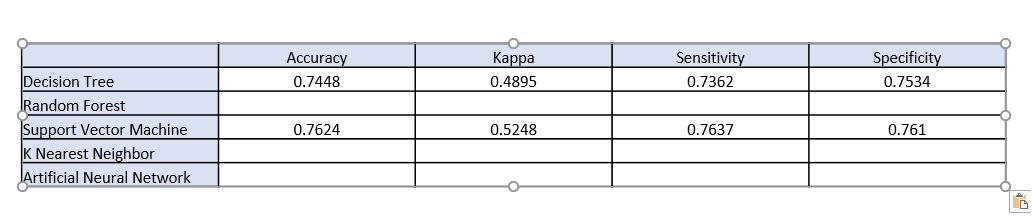
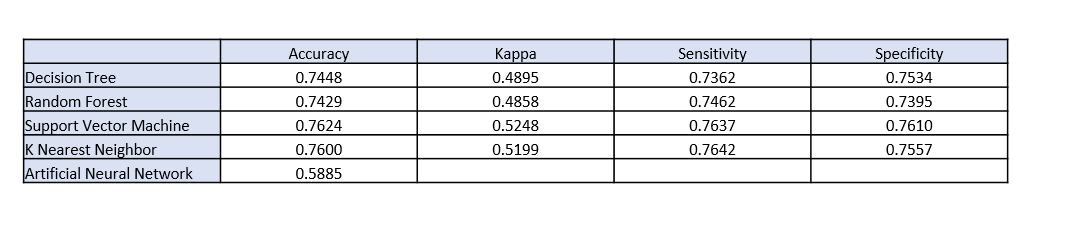
Practicum-II Update

Changed region(s): [[0.0, 0.1614, 1.0, 0.9686]]

diff --git a/README.md b/README.md
@@ -350,6 +350,10 @@ Artificial Neural Networks determine how much an attribute or combination of att
 
 ![alt tag](Images/Model-Statistics-Summary.png "Model Statistics Summary")
 
+## Conclusion
+
+This project focused on analyzing NCAA Men's Basketball Statistics for hundreds of teams across three divisions. Approximately 248,000 records, each with 965 attributes were collected. Exploratory Data Analysis was done during Python data scraping and by visualization using Tableau. Data Cleansing was done during Python data scraping and by using an Oracle Cloud Instance. Using Oracle, data was cleansed through its data definition language and via SQL once the tables were built and loaded. Having the data in SQL tables allowed for the data to be iteratively cleansed. Initial Decision Tree analysis found that out of the 965 predictors, only a fraction of those predictors were important. While running all data through Decision Tree, it was discovered that the desktop machine being used was not powerful enough. Specifically, it did not have enough memory. Computation was then moved to AWS cloud where EC2 instances, with enough resources, could be launched at will. These instances were launched as spot instances at a fraction of the normal dedicated instance price. With the important variables computed by Decision Tree, Random Forest, K Nearest Neighbor, Support Vector Machine, and Artificial Neural Network models were built. Accuracy, Kappa, Sensitivity, and Specificity statistics were compiled and compared. While all models produced similar statistical values, K Nearest Neighbors and Support Vector Machines produced the best statistical values with a 76 percent accuracy. Interestingly, both of these methods compute based on distance. Support Vector Machine attempts to achieve separation of data points. K Nearest Neighbor does not actually build a model. KNN is a relatively simple computation that computes the distance between points and then categorizes based on the label of the K number of nearest points.
+
 ## References
 
 #### Lantz, B. (2015). Machine Learning with R. Birmingham, UK: Packt.
